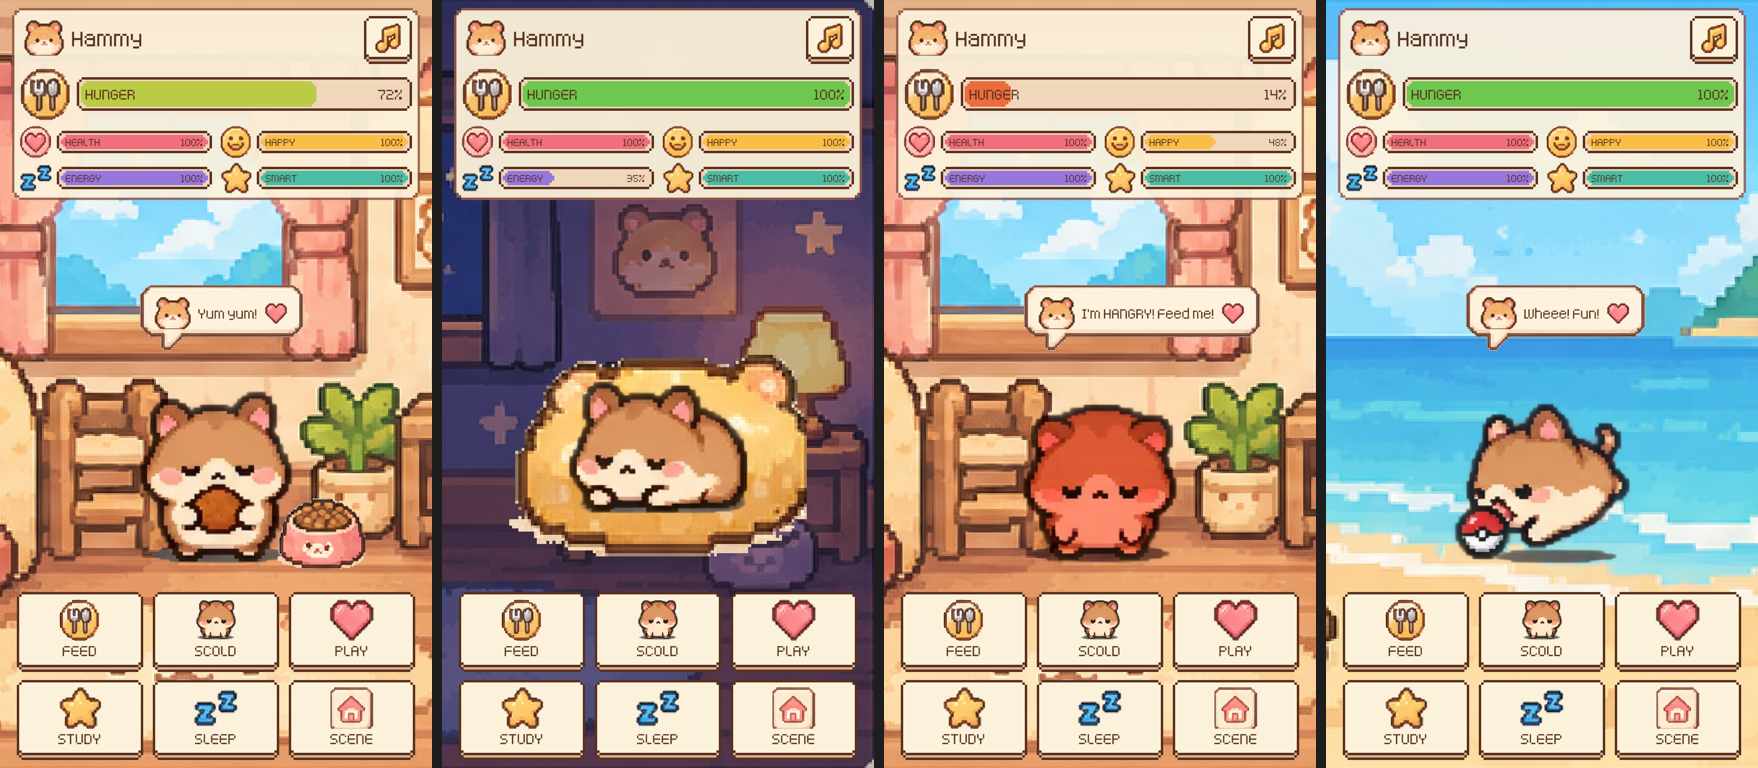
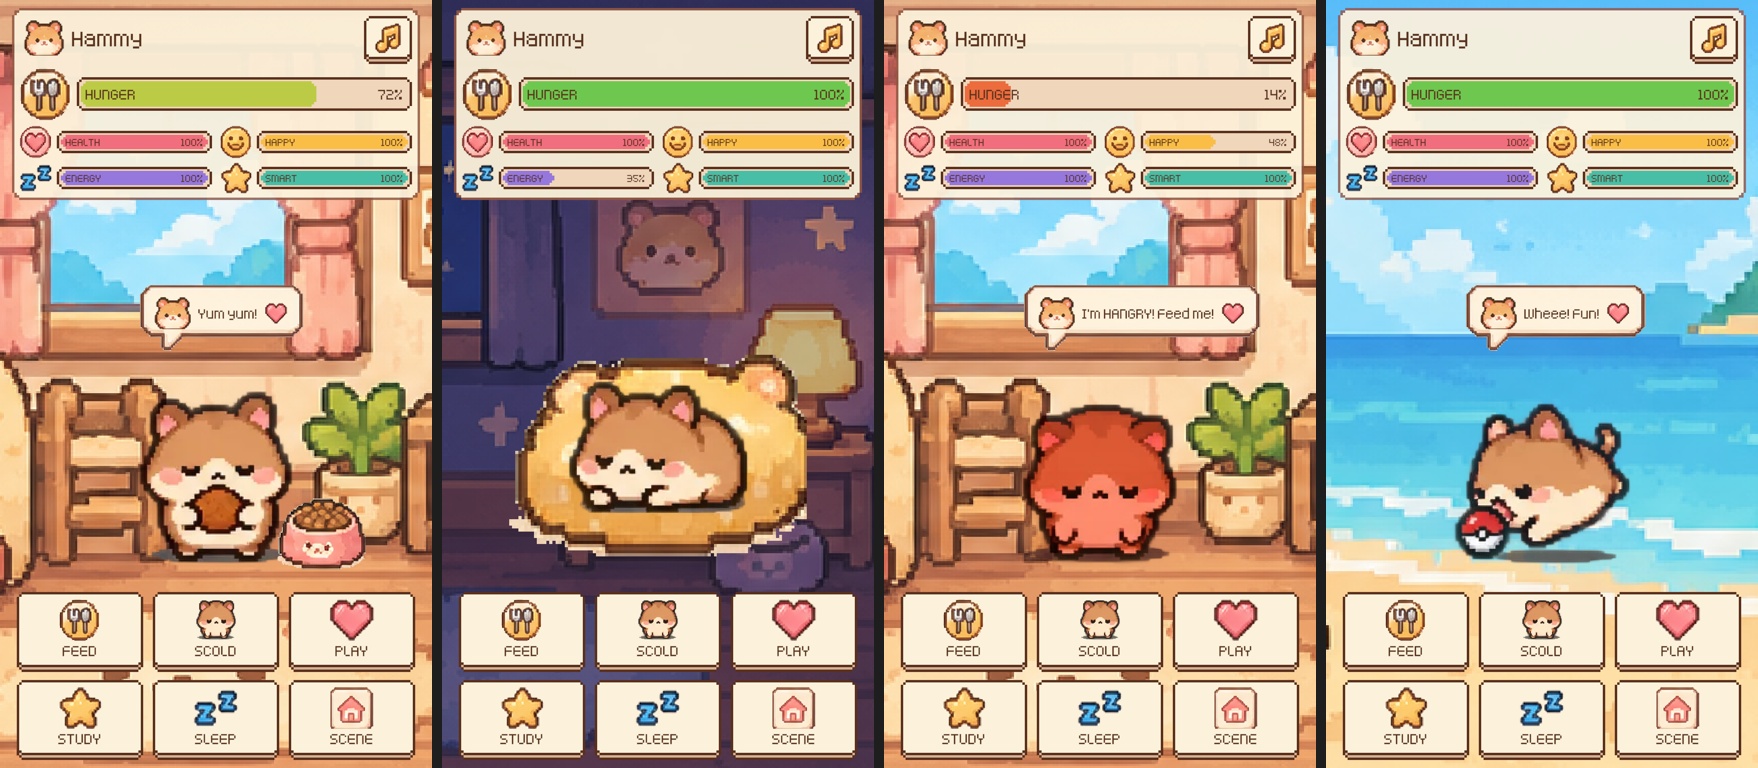
Update README and screenshots for 1080x1920 backgrounds

diff --git a/README.md b/README.md
@@ -118,7 +118,8 @@ and it gets **sick**.
 Assets/
   Art/
     Pet/Hamster/      hamster animation frames (idle, eating, studying, sleeping, happy, playing, sad, crying)
-    Backgrounds/      6 full scenes (cozy_home, moonlit_bedroom, sunny_garden, beach, forest_stream, sunset_rooftop)
+    Backgrounds/      6 scenes, portrait 1080x1920 (cozy_home, moonlit_bedroom, sunny_garden, beach, forest_stream,
+                      sunset_rooftop), cropped + scaled from the pack by Tools/make_backgrounds.py
     Props/            props from the pack (the food bowl and soft bed are used in game)
     UI/               Buttons/, Dialogs/, Status/ sprites from the pack
       Icons/          round stat icons cut from the Status bars (by Tools/make_ui_sprites.py)
@@ -162,6 +163,7 @@ Tools/
   screenshots.sh      regenerates Docs/screenshot.png and Docs/states_overview.png
   make_ui_sprites.py  cleans button sprites, cuts icons, draws frames (Python + Pillow)
   make_music.py       generates the background music loop (Python standard library)
+  make_backgrounds.py crops the pack's wide scenes to 9:16 and scales them to 1080x1920 (Python + Pillow)
 ```
 
 ## Audio credits
@@ -198,6 +200,7 @@ edit the list in `Assets/Editor/MainSceneBuilder.cs` (`SetSounds`) instead.
 |-------|--------|---------|
 | Hamster sprites, backgrounds, props, UI sprites | Supplied by the project owner (tamagotchi asset pack) | Project owner's own assets |
 | `Assets/Art/UI/Icons/*`, `Assets/Art/UI/Generated/*` (incl. the speech bubble made from the pack's `chat_bubble.png`) | Derived from / drawn to match the pack by `Tools/make_ui_sprites.py` | Same as above |
+| `Assets/Art/Backgrounds/*` (1080x1920) | Cropped to 9:16 and scaled up (nearest-neighbour) from the pack's `Scenes/` by `Tools/make_backgrounds.py` | Same as above |
 | `Assets/Art/UI/Buttons/star.png`, `music.png`, `sleep_z.png` | Re-cut from the pack's `Source/complete_generated_asset_sheet.png` (the pack's own copies are clipped) | Same as above |
 | `Assets/Art/Fonts/KenneyPixel.ttf` | [Kenney Fonts](https://kenney.nl/assets/kenney-fonts) by Kenney | CC0 1.0 (`KenneyFonts-License.txt`) |
 | `Assets/TextMesh Pro/*` (LiberationSans etc.) | Unity TextMesh Pro essential resources | Unity Companion License / SIL OFL (LiberationSans) |
